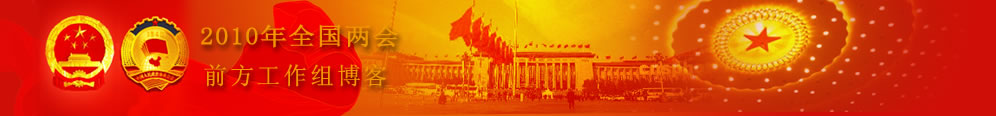
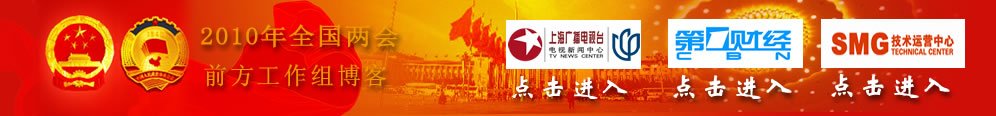
robbin

Changed region(s): [[0.498, 0.1552, 0.996, 0.5948], [0.498, 0.6466, 0.9649, 0.9052]]

diff --git a/css/top.css b/css/top.css
@@ -9,8 +9,9 @@ li{margin:0px; list-style-type:none;}
 #nav1 #context a{color:#999999; text-decoration:none;}
 #nav1 #context span{color:#999999; cursor:pointer;}
 #nav1 #home{width:51px; height:11px; margin-top:3px; margin-right:5px; float:right; display:inline;}
-#nimg1{width:995px; text-align:center; margin:0 auto;}
-.deptlogo{width:144px; height:84px; margin-left:10px; float:left; display:inline;}
+#nimg1{width:995px; height:116px; background:url('/images/shanghailoianghui.jpg') no-repeat; text-align:center; margin:0 auto;}
+.deptlogo{width:135px; height:84px; margin-top:20px; float:left; display:inline;}
+.deptlogo a{width:135px; height:84px; text-decoration:none;}
 #nav2{margin-top:2px; width:100%; line-height:20px; height:110px; float:left; display:inline;}
 #nav2 #box{width:995px; height:110px; background:url('/images/top/bg.jpg') no-repeat; margin:0 auto;}
 /*#nav2 #logo{width:162px; height:45px; margin-top:15px; margin-left:10px; background:url(/images/top/logo1.jpg) no-repeat; float:left; display:inline;}*/

diff --git a/subject/sbfnj/index.php b/subject/sbfnj/index.php
@@ -169,7 +169,7 @@ ul,li{margin:0px; padding:0px;list-style:none;}
 			       <? $news=$db->query('select n.photo_src,n.id,n.description,n.title,n.news_type,n.target_url,n.file_name,c.id as cid from smg_news n inner join smg_subject_items i on i.resource_id=n.id and i.category_type="news" and n.is_adopt=1 inner join smg_subject_category c on c.id=i.category_id and c.name="相关新闻" inner join smg_subject s on c.subject_id=s.id and s.name="三八妇女节专题" order by i.priority asc, n.last_edited_at desc limit 2');?>
 			       <div id="box4">
 				  		<? for($i=0; $i<count($news); $i++){?>
-							<div align=left style="width:100%; height:20px; margin-left:15px; line-height:20px; overflow:hidden; float:left; display:inline;"><img src="/images/index/icon03.gif" /><a style="font-weight:bold;" target="_blank" href="/news/news.php?id=<? echo $news[$i]->id;?>"><? echo $news[$i]->title;?></a></div>
+							<div style="width:100%; height:20px; margin-left:15px; line-height:20px; overflow:hidden; float:left; display:inline;"><img src="/images/index/icon03.gif" /><a style="font-weight:bold;" target="_blank" href="/news/news.php?id=<? echo $news[$i]->id;?>"><? echo $news[$i]->title;?></a></div>
 							<? }?>
 			       </div>
 			  	</td>

diff --git a/inc/top.inc.php b/inc/top.inc.php
@@ -5,7 +5,7 @@
 	$db = get_db();
 	use_jquery();
 	js_include_tag('jquery.cookie','pubfun');
-	//css_include_tag('top');
+	css_include_tag('top');
 	function daysInSpan($start,$end)
 		{
 		 $dayTicks=ticksInDay();
@@ -33,7 +33,7 @@
 <div id=nimg1>
 	<?php $days=daysInSpan(mktime(0,0,0,date('m'),date('d'),date('Y')),mktime(0,0,0,11,01,2009));?>
 	<!--<a target="_blank" href="/news/news/news_head.php?id=32903"><img border=0 src="/images/dfws.jpg"></a>-->
-	<a target="_blank" href="http://172.27.203.81:8080/blog/?3312"><img border=0 src="/images/shanghailoianghui.jpg"></a>
+	<div class=deptlogo style="margin-left:505px;"><a href="http://172.27.203.81:8080/blog/?3312"></a></div><div class=deptlogo style="margin-left:24px;"><a href="http://172.27.203.81:8080/blog/?uid-3316"></a></div><div class=deptlogo style="margin-left:23px;"><a href="http://172.27.203.81:8080/blog/?uid-48"></a></div>
 	<!--<img src="/images/2010.jpg">-->
 </div>
 <div id=nav2>
